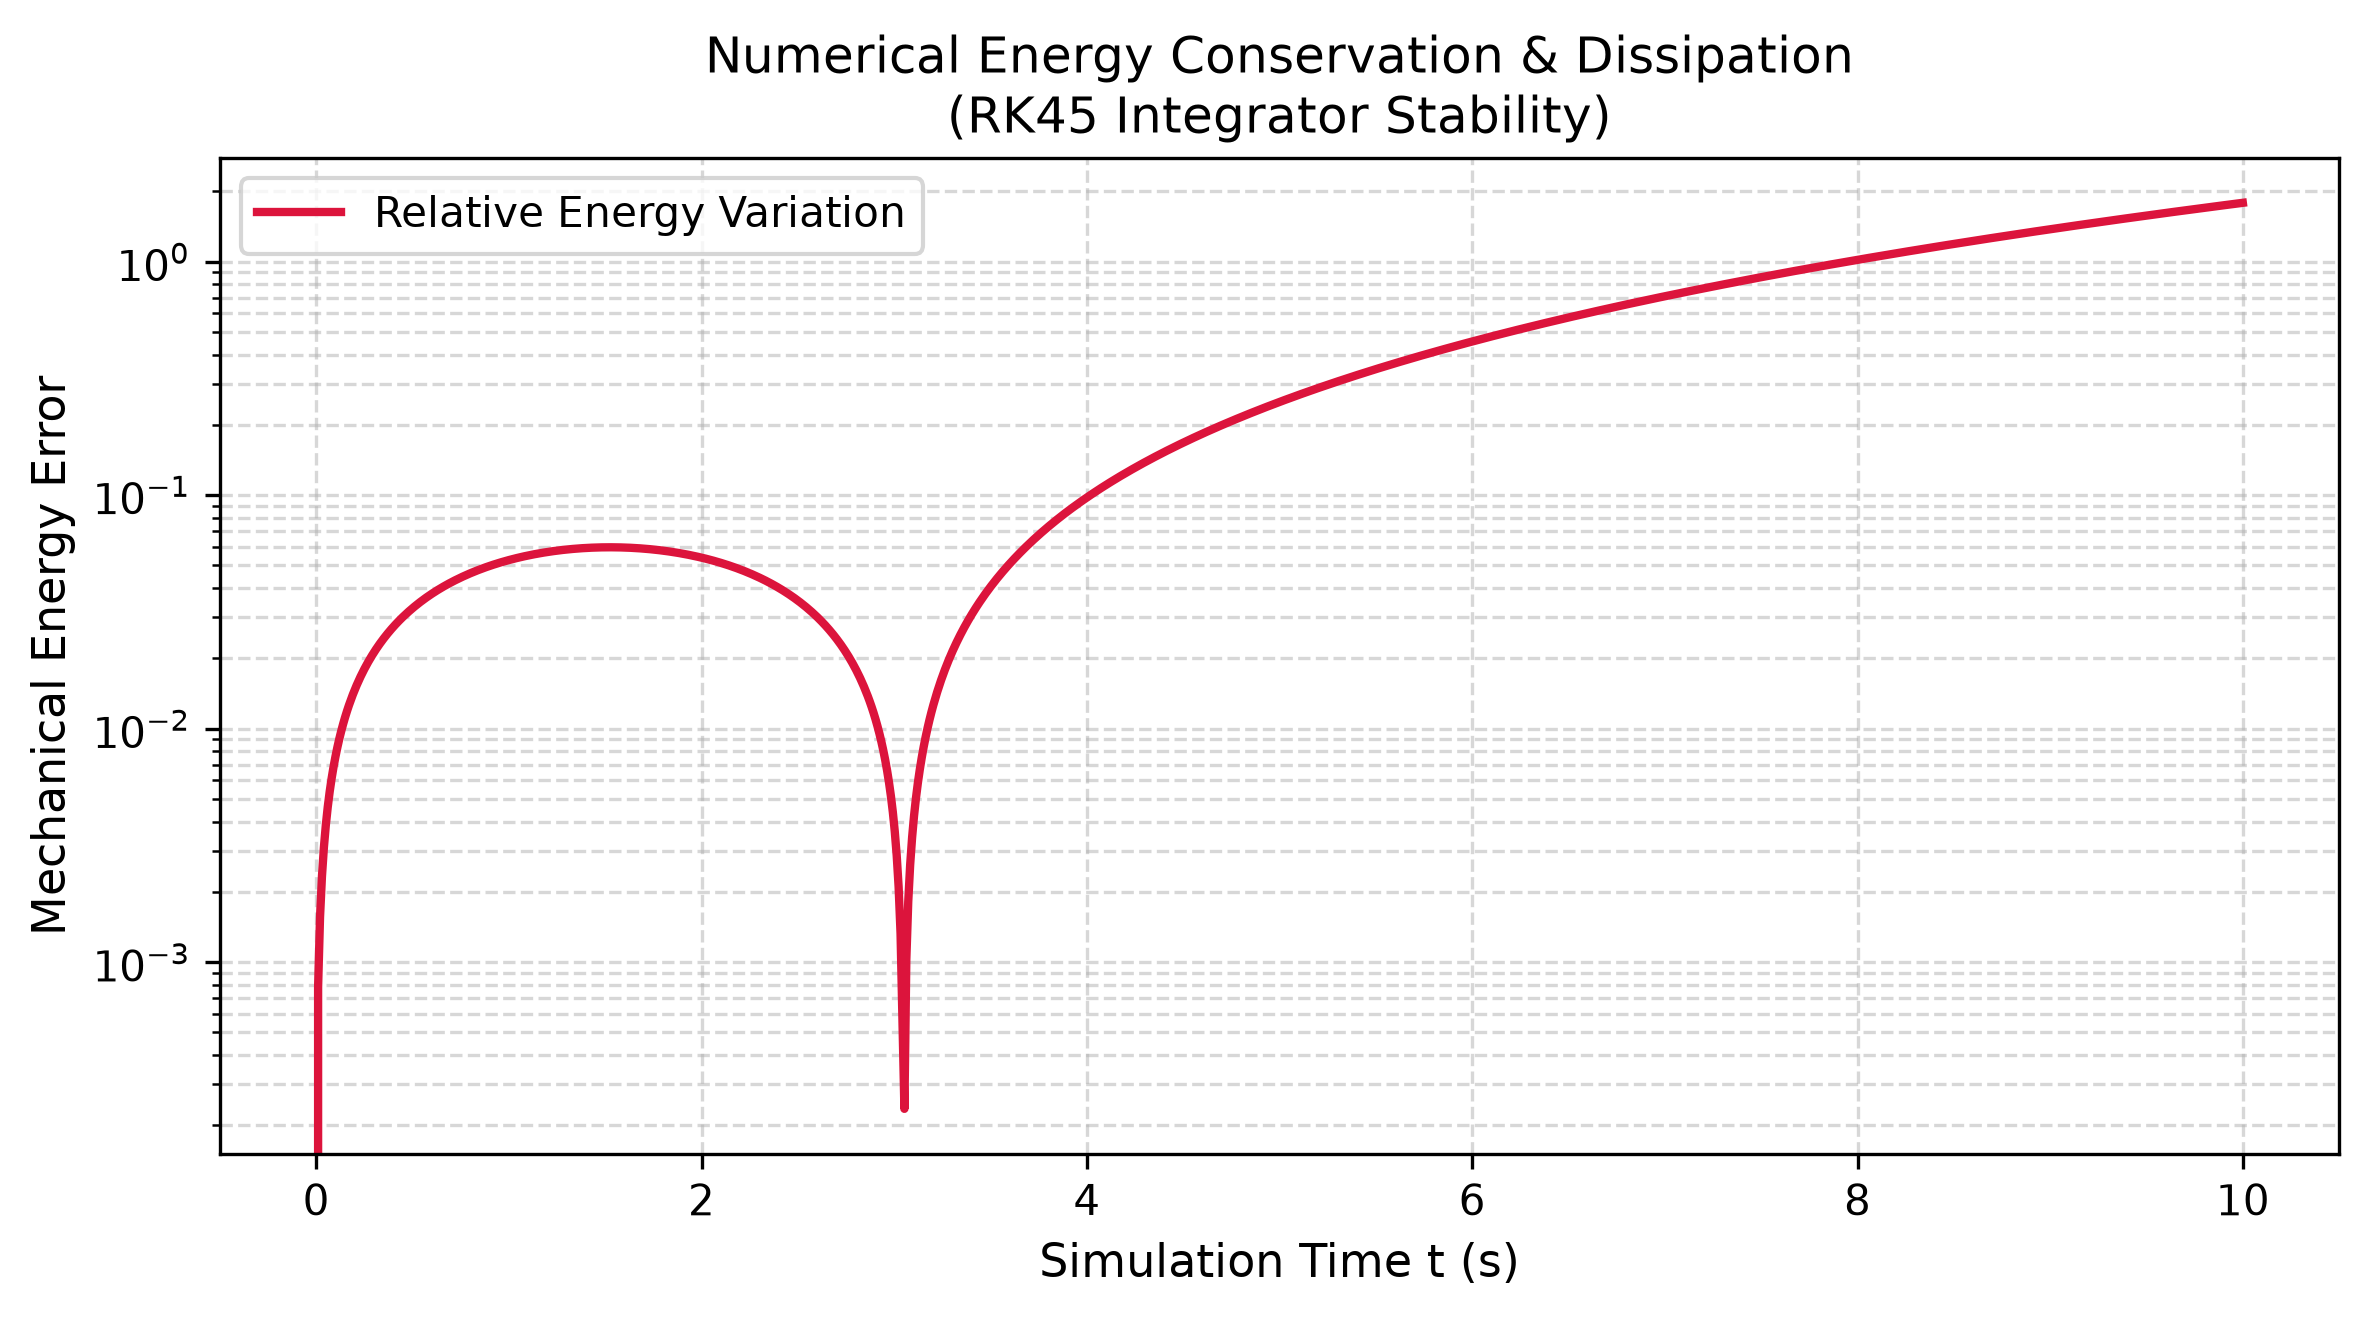
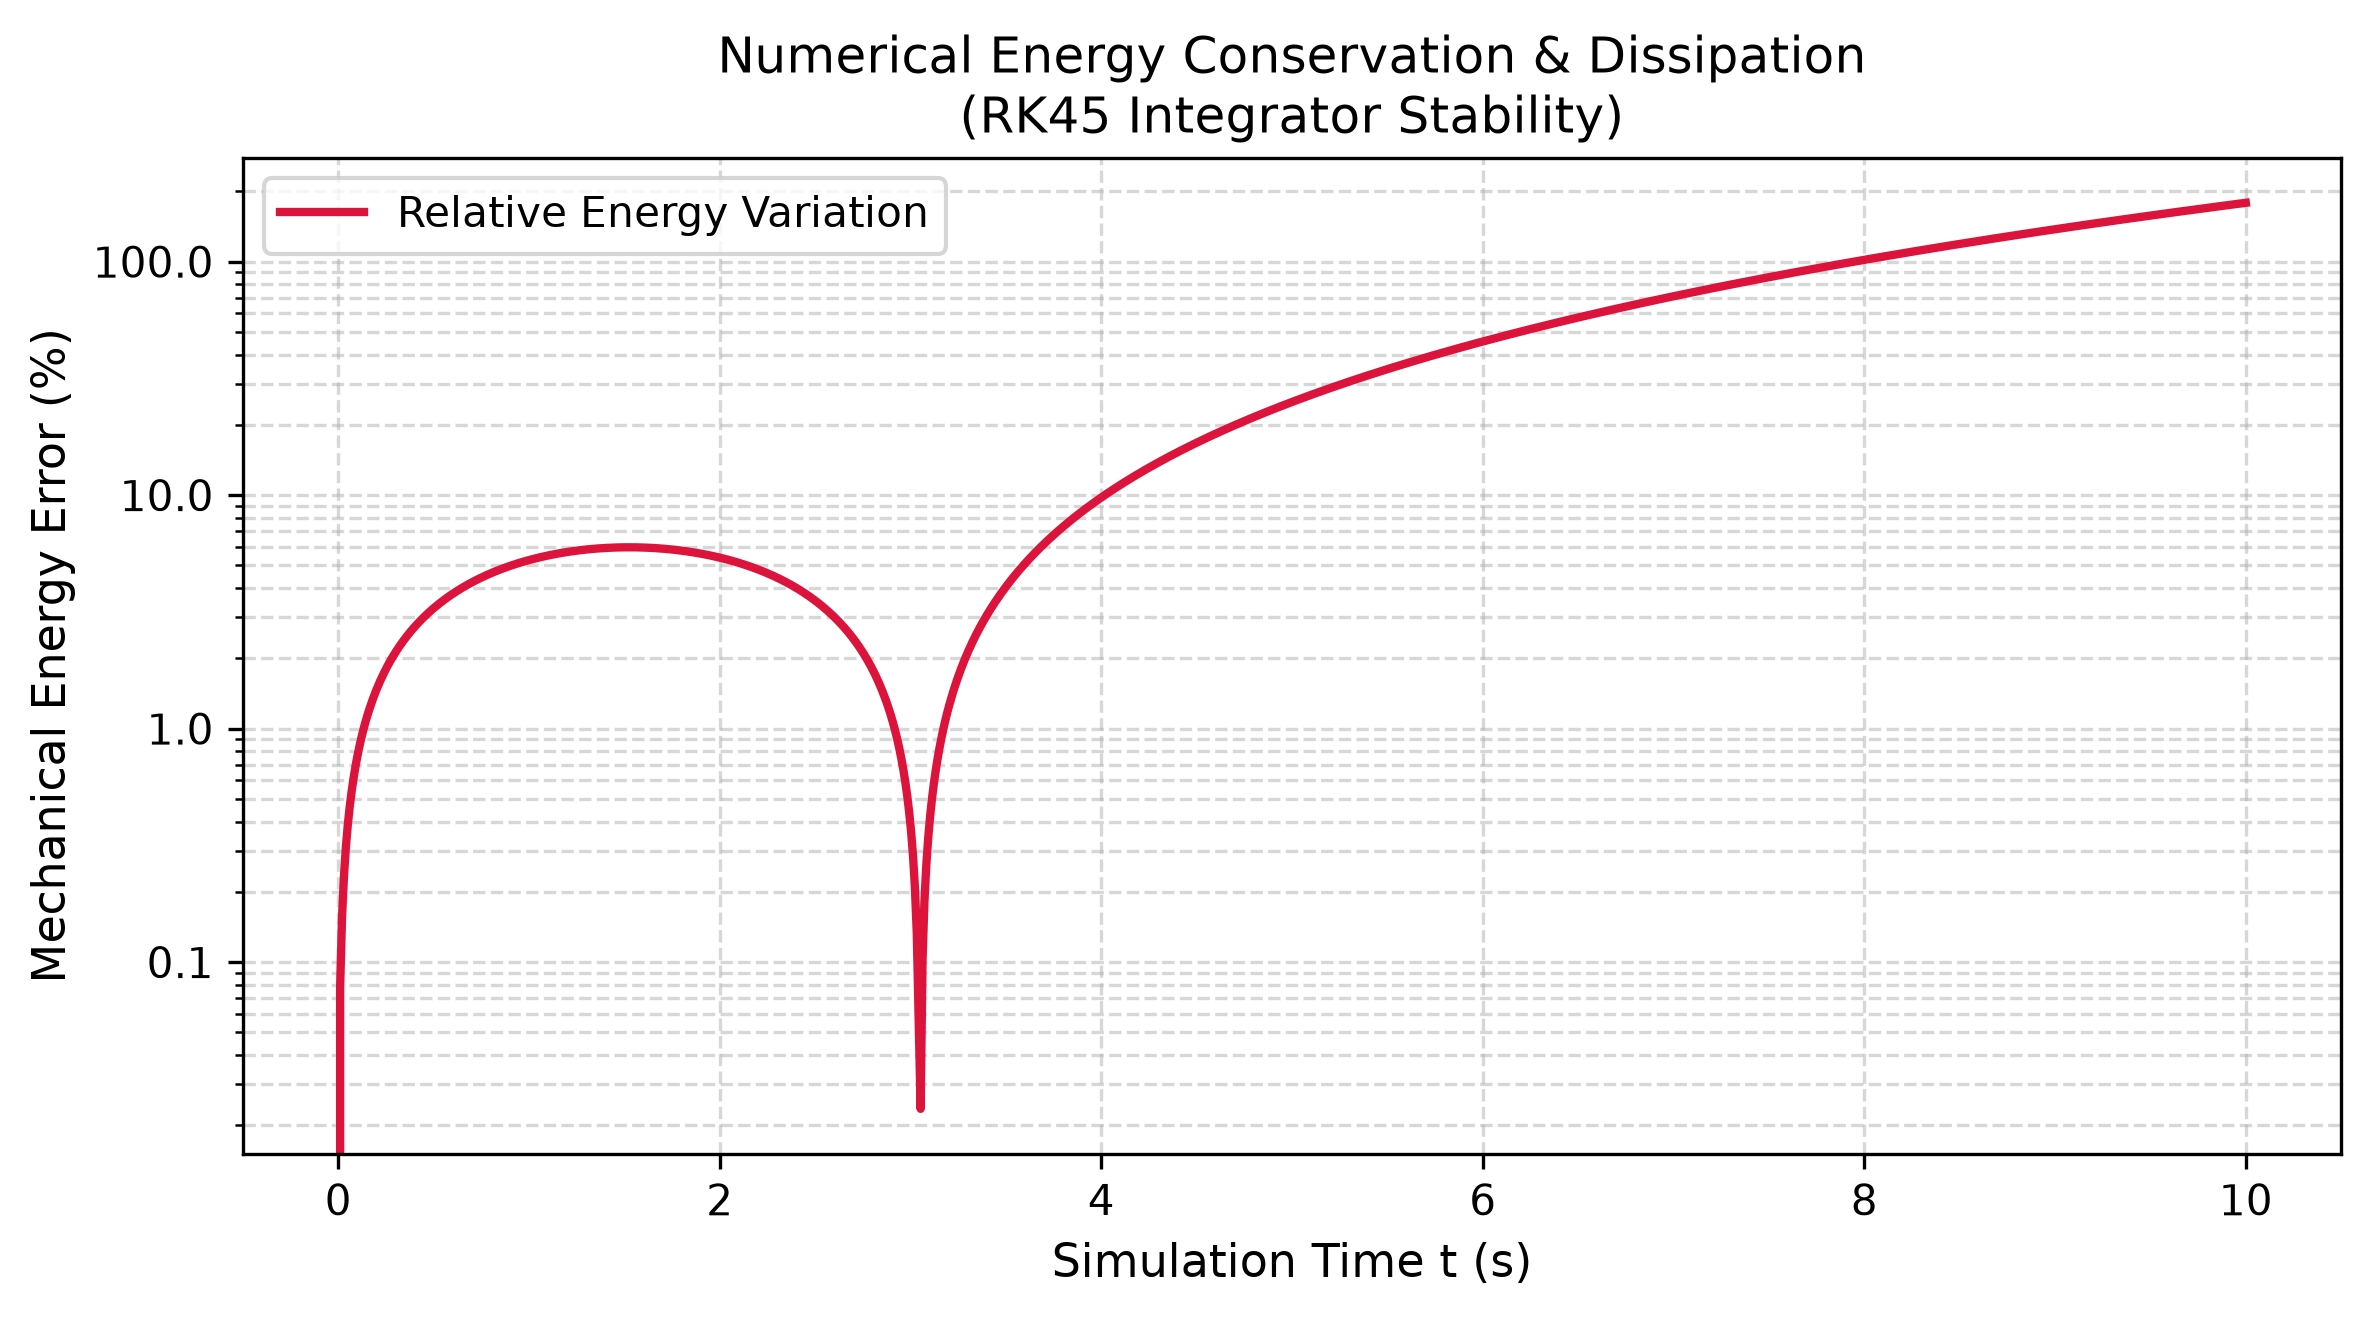
- Changed numbers' format on y-axis of energy_error_plot.png

diff --git a/visualizations/energy_error_plot.py b/visualizations/energy_error_plot.py
@@ -1,5 +1,6 @@
 import pandas as pd
 import matplotlib.pyplot as plt
+from matplotlib.ticker import ScalarFormatter
 import numpy as np
 from pathlib import Path
 
@@ -16,13 +17,15 @@ def plot_energy_error(results_df, parameters):
     E = results_df["mechanical_energy_J"]
     E0 = E.iloc[0]
 
-    fractional_error = np.abs((E - E0) / E0)
+    fractional_error_percent = np.abs((E - E0) / E0) * 100
 
     fig, ax = plt.subplots(figsize = (8, 4.5))
-    ax.plot(t, fractional_error, color = "crimson", linewidth = 2, label = "Relative Energy Variation")
+    ax.plot(t, fractional_error_percent, color ="crimson", linewidth = 2, label ="Relative Energy Variation")
     ax.set_yscale("log")
+    ax.yaxis.set_major_formatter(ScalarFormatter())
+    ax.ticklabel_format(axis = "y", style = "plain")
     ax.set_xlabel("Simulation Time t (s)", fontsize = 11)
-    ax.set_ylabel("Mechanical Energy Error", fontsize = 11)
+    ax.set_ylabel("Mechanical Energy Error (%)", fontsize = 11)
     ax.set_title("Numerical Energy Conservation & Dissipation\n(RK45 Integrator Stability)", fontsize = 12)
     ax.grid(True, which = "both", linestyle = "--", alpha = 0.5)
     ax.legend(loc = "upper left", fontsize = 10)
